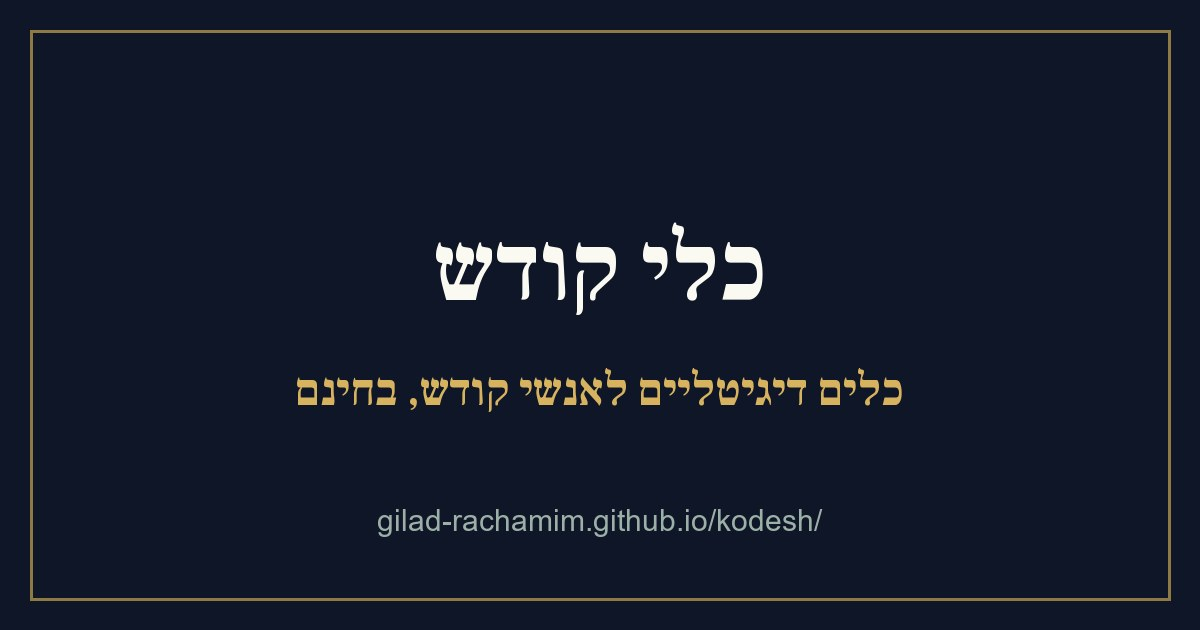
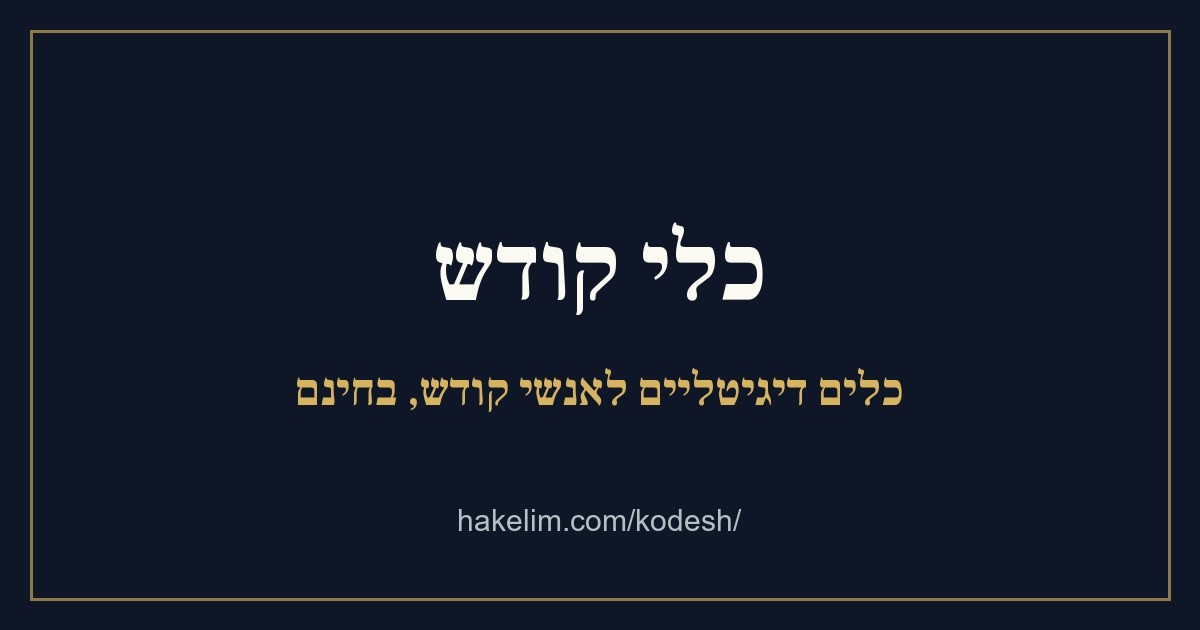
תמונות שיתוף: hakelim.com במקום github.io בתמונות של כלים, קודש ובית
הכתובת הישנה הייתה צרובה בתוך og-kelim/og-kodesh/og-bait. הוחלפה ב-hakelim.com,
ונוסף ?v=2 לכתובת התמונה כדי שפייסבוק ווטסאפ ימשכו אותה מחדש.

Changed region(s): [[0.3083, 0.8143, 0.6783, 0.8444]]

diff --git a/kelim/sw.js b/kelim/sw.js
@@ -1,7 +1,7 @@
 // service worker של תת-אתר בהכלים של גילעד רחמים (נוצר ע"י build.py, לא לערוך את העותק בתיקיית האתר).
 // דפים: קודם רשת, ואם אין אינטרנט – מהשמור. קבצים קבועים (css/js/גופנים): קודם שמור.
 // בקשות לשרתים אחרים (התמלול, גוגל) לא נוגעים בהן.
-var CACHE = 'kelim-202611110308';
+var CACHE = 'kelim-202611111223';
 var PRECACHE = ["/kelim/avoda/", "/kelim/avoda/korot/", "/kelim/avoda/misrot/", "/kelim/avoda/reayon/", "/kelim/briut/", "/kelim/briut/madadim/", "/kelim/briut/rofe/", "/kelim/briut/trufot/", "/kelim/chashiva/avanim/", "/kelim/chashiva/blackjack/", "/kelim/chashiva/chidon/", "/kelim/chashiva/damka/", "/kelim/chashiva/", "/kelim/chashiva/kita/beit-sefer/", "/kelim/chashiva/kita/horim/", "/kelim/chashiva/kita/", "/kelim/chashiva/kita/more/", "/kelim/chashiva/mila/", "/kelim/chashiva/poker/", "/kelim/chashiva/reviiot/", "/kelim/chashiva/shachmat/", "/kelim/chashiva/shachor/", "/kelim/chashiva/shesh-besh/", "/kelim/chashiva/sudoku/", "/kelim/chashiva/tashchetz/", "/kelim/chashiva/yaniv/", "/kelim/eruim/hachana/", "/kelim/eruim/hazmana/bar-mitzva/", "/kelim/eruim/hazmana/bat-mitzva/", "/kelim/eruim/hazmana/chalake/", "/kelim/eruim/hazmana/chanukat-bayit/", "/kelim/eruim/hazmana/chatuna/", "/kelim/eruim/hazmana/china/", "/kelim/eruim/hazmana/erusin/", "/kelim/eruim/hazmana/", "/kelim/eruim/hazmana/m/", "/kelim/eruim/hazmana/sefer-torah/", "/kelim/eruim/hazmana/sheva-brachot/", "/kelim/eruim/hazmana/v/", "/kelim/eruim/hazmana/yom-huledet/", "/kelim/eruim/hoshava/", "/kelim/eruim/", "/kelim/eruim/tochnit/", "/kelim/hitkadmut/", "/kelim/", "/kelim/kehila/aliyot/", "/kelim/kehila/azkarot/", "/kelim/kehila/", "/kelim/kehila/trempim/", "/kelim/kehila/trempim/luz/", "/kelim/kehila/trempim/pratiut/", "/kelim/kehila/trumot/", "/kelim/kesharim/hodaot/", "/kelim/kesharim/", "/kelim/kesharim/ishurim/", "/kelim/kesharim/sidur/", "/kelim/kesharim/yomulda/", "/kelim/machshev/chadashot/", "/kelim/machshev/chadashot/moda/", "/kelim/machshev/fax/", "/kelim/machshev/gibui/", "/kelim/machshev/", "/kelim/machshev/kasher/", "/kelim/machshev/kav/", "/kelim/machshev/pdf/", "/kelim/machshev/sader/", "/kelim/machshev/sisma/", "/kelim/machshev/tmuna/", "/kelim/machshev/tzilumim/", "/kelim/machshev/video/", "/kelim/miluim/bait/", "/kelim/miluim/", "/kelim/miluim/tziyud/", "/kelim/miluim/yamim/", "/kelim/mishpacha/", "/kelim/mishpacha/kniyot/", "/kelim/mishpacha/shabbat/", "/kelim/mishpacha/toranut/", "/kelim/pratiut/", "/kelim/shikum/", "/kelim/shikum/tik/", "/kelim/shikum/vaada/", "/kelim/shikum/yoman/", "/kelim/shipurim/", "/kelim/shir/clip/", "/kelim/shir/haklata/", "/kelim/shir/", "/kelim/shir/karaoke/erev/", "/kelim/shir/karaoke/", "/kelim/shir/lachan/", "/kelim/shir/milim/", "/kelim/tamlul/", "/kelim/tichnut/base64/", "/kelim/tichnut/bits/", "/kelim/tichnut/emet/", "/kelim/tichnut/git/", "/kelim/tichnut/gpu/", "/kelim/tichnut/hagdarot/", "/kelim/tichnut/imun/", "/kelim/tichnut/", "/kelim/tichnut/json/", "/kelim/tichnut/maslul/", "/kelim/tichnut/mehirut/", "/kelim/tichnut/miunim/", "/kelim/tichnut/occupancy/", "/kelim/tichnut/pkudot/", "/kelim/tichnut/reayon-tech/", "/kelim/tichnut/regex/", "/kelim/tichnut/shgiot/", "/kelim/tichnut/sibuchiyut/", "/kelim/tichnut/simulator/", "/kelim/tichnut/sql/", "/kelim/tichnut/tzaad/", "/kelim/tichnut/vram/", "/kelim/tiyulim/hotzaot/", "/kelim/tiyulim/", "/kelim/tiyulim/maslul/", "/kelim/tiyulim/ochel/", "/kelim/tiyulim/tziyud/", "/kelim/tochen/chaye/", "/kelim/tochen/gdalim/", "/kelim/tochen/", "/kelim/tochen/matzeget/", "/kelim/tochen/moda/", "/kelim/tochen/shiron/", "/kelim/tochen/studio/", "/kelim/tochen/wa/", "/assets/site.css?v=39e81fea", "/assets/kelim.css?v=95dad8f3", "/assets/kelim.js?v=c681b967", "/assets/track.js?v=b23b682b", "/assets/fonts/FrankRuhlLibre-wght.woff", "/assets/fonts/Assistant-wght.woff", "/assets/icon-kelim-192.png"];
 self.addEventListener('install', function (e) {
   e.waitUntil(caches.open(CACHE).then(function (c) { return c.addAll(PRECACHE); }).catch(function () {}).then(function () { return self.skipWaiting(); }));

diff --git a/kodesh/sw.js b/kodesh/sw.js
@@ -1,7 +1,7 @@
 // service worker של תת-אתר בהכלים של גילעד רחמים (נוצר ע"י build.py, לא לערוך את העותק בתיקיית האתר).
 // דפים: קודם רשת, ואם אין אינטרנט – מהשמור. קבצים קבועים (css/js/גופנים): קודם שמור.
 // בקשות לשרתים אחרים (התמלול, גוגל) לא נוגעים בהן.
-var CACHE = 'kodesh-202611110308';
+var CACHE = 'kodesh-202611111223';
 var PRECACHE = ["/kodesh/album/", "/kodesh/alon/", "/kodesh/atar/", "/kodesh/azkara/", "/kodesh/beit-knesset/", "/kodesh/boker/", "/kodesh/brachon/", "/kodesh/brachot/", "/kodesh/brachot/yom-huledet/", "/kodesh/britot/", "/kodesh/britot-meyuchadot/", "/kodesh/chag-basis/", "/kodesh/chanuka/bracha/", "/kodesh/chanuka/chanukiya/", "/kodesh/chanuka/chesed/", "/kodesh/chanuka/chidon/", "/kodesh/chanuka/chufsha/", "/kodesh/chanuka/", "/kodesh/chanuka/kniyot/", "/kodesh/chanuka/matkonim/", "/kodesh/chanuka/nerot/", "/kodesh/chanuka/sevivon/", "/kodesh/chanuka/shiron/", "/kodesh/chanuka/sipurim/", "/kodesh/chanuka/tashbetz/", "/kodesh/chanuka/tshii/", "/kodesh/chanuka/tzviya/", "/kodesh/chayal/", "/kodesh/dapei-tefila/", "/kodesh/dvar-torah/", "/kodesh/hachlama/", "/kodesh/hodaot/", "/kodesh/", "/kodesh/kartis/", "/kodesh/kartis-mohel/", "/kodesh/kibudim-yechida/", "/kodesh/luach/", "/kodesh/luach-shana/", "/kodesh/masach/", "/kodesh/mekorot/", "/kodesh/misheberach/", "/kodesh/mohalim/bli-atar/", "/kodesh/mohalim/", "/kodesh/olpan/", "/kodesh/olpan/kol/", "/kodesh/olpan/mara/", "/kodesh/olpan/prompter/", "/kodesh/olpan/reka/", "/kodesh/omer-avot/", "/kodesh/post/", "/kodesh/psak/", "/kodesh/qr/", "/kodesh/r/", "/kodesh/shavua/", "/kodesh/shiur/", "/kodesh/shut/", "/kodesh/simcha/", "/kodesh/sipur/", "/kodesh/sipurim/", "/kodesh/taarichim/", "/kodesh/tehillim/", "/kodesh/tehillim/shem/", "/kodesh/teuda/", "/kodesh/tofes-brit/", "/kodesh/tziyud/", "/kodesh/video/", "/kodesh/video-parasha/", "/kodesh/video-shiur/", "/kodesh/zmanim/", "/assets/site.css?v=39e81fea", "/assets/kelim.css?v=95dad8f3", "/assets/kelim.js?v=c681b967", "/assets/track.js?v=b23b682b", "/assets/fonts/FrankRuhlLibre-wght.woff", "/assets/fonts/Assistant-wght.woff", "/assets/icon-kodesh-192.png"];
 self.addEventListener('install', function (e) {
   e.waitUntil(caches.open(CACHE).then(function (c) { return c.addAll(PRECACHE); }).catch(function () {}).then(function () { return self.skipWaiting(); }));

diff --git a/limudim/sw.js b/limudim/sw.js
@@ -1,7 +1,7 @@
 // service worker של תת-אתר בהכלים של גילעד רחמים (נוצר ע"י build.py, לא לערוך את העותק בתיקיית האתר).
 // דפים: קודם רשת, ואם אין אינטרנט – מהשמור. קבצים קבועים (css/js/גופנים): קודם שמור.
 // בקשות לשרתים אחרים (התמלול, גוגל) לא נוגעים בהן.
-var CACHE = 'limudim-202611110308';
+var CACHE = 'limudim-202611111223';
 var PRECACHE = ["/limudim/batei-sefer/", "/limudim/dapim/", "/limudim/ilui/", "/limudim/", "/limudim/kahoot/", "/limudim/kartisiot/", "/limudim/krav/", "/limudim/krav-anglit/", "/limudim/kvutza/", "/limudim/machberet/", "/limudim/machberet/kita/", "/limudim/machshevon/", "/limudim/maslul/", "/limudim/matematika/", "/limudim/mivchan/", "/limudim/olami/", "/limudim/poter/", "/limudim/timer/", "/limudim/yomi/", "/assets/site.css?v=39e81fea", "/assets/kelim.css?v=95dad8f3", "/assets/kelim.js?v=c681b967", "/assets/track.js?v=b23b682b", "/assets/fonts/FrankRuhlLibre-wght.woff", "/assets/fonts/Assistant-wght.woff", "/assets/icon-limudim-192.png", "/assets/limudim.css?v=b9223dd1", "/assets/limudim.js?v=b71ff230"];
 self.addEventListener('install', function (e) {
   e.waitUntil(caches.open(CACHE).then(function (c) { return c.addAll(PRECACHE); }).catch(function () {}).then(function () { return self.skipWaiting(); }));

diff --git a/kesef/sw.js b/kesef/sw.js
@@ -1,7 +1,7 @@
 // service worker של תת-אתר בהכלים של גילעד רחמים (נוצר ע"י build.py, לא לערוך את העותק בתיקיית האתר).
 // דפים: קודם רשת, ואם אין אינטרנט – מהשמור. קבצים קבועים (css/js/גופנים): קודם שמור.
 // בקשות לשרתים אחרים (התמלול, גוגל) לא נוגעים בהן.
-var CACHE = 'kesef-202611110308';
+var CACHE = 'kesef-202611111223';
 var PRECACHE = ["/kesef/ashrai/", "/kesef/halvaa/", "/kesef/hechzer/", "/kesef/", "/kesef/kranot/", "/kesef/mechir/", "/kesef/minuyim/", "/kesef/mismachim/", "/kesef/mivtza/", "/kesef/ribit-dribit/", "/kesef/shana/", "/kesef/taktziv/", "/kesef/tlush/", "/kesef/yeladim/", "/assets/site.css?v=39e81fea", "/assets/kelim.css?v=95dad8f3", "/assets/kelim.js?v=c681b967", "/assets/track.js?v=b23b682b", "/assets/fonts/FrankRuhlLibre-wght.woff", "/assets/fonts/Assistant-wght.woff", "/assets/icon-kesef-192.png", "/assets/kesef.css?v=b790a201", "/assets/kesef.js?v=27f16432"];
 self.addEventListener('install', function (e) {
   e.waitUntil(caches.open(CACHE).then(function (c) { return c.addAll(PRECACHE); }).catch(function () {}).then(function () { return self.skipWaiting(); }));

diff --git a/nefesh/sw.js b/nefesh/sw.js
@@ -1,7 +1,7 @@
 // service worker של תת-אתר בהכלים של גילעד רחמים (נוצר ע"י build.py, לא לערוך את העותק בתיקיית האתר).
 // דפים: קודם רשת, ואם אין אינטרנט – מהשמור. קבצים קבועים (css/js/גופנים): קודם שמור.
 // בקשות לשרתים אחרים (התמלול, גוגל) לא נוגעים בהן.
-var CACHE = 'nefesh-202611110308';
+var CACHE = 'nefesh-202611111223';
 var PRECACHE = ["/nefesh/hayom/", "/nefesh/", "/nefesh/koach/", "/nefesh/michtav/", "/nefesh/mishpacha/", "/nefesh/rega/", "/nefesh/tmicha/", "/nefesh/yoman/", "/assets/site.css?v=39e81fea", "/assets/kelim.css?v=95dad8f3", "/assets/kelim.js?v=c681b967", "/assets/track.js?v=b23b682b", "/assets/fonts/FrankRuhlLibre-wght.woff", "/assets/fonts/Assistant-wght.woff", "/assets/icon-nefesh-192.png", "/assets/nefesh.css?v=21cf25b4", "/assets/nefesh.js?v=bb3ac2d0"];
 self.addEventListener('install', function (e) {
   e.waitUntil(caches.open(CACHE).then(function (c) { return c.addAll(PRECACHE); }).catch(function () {}).then(function () { return self.skipWaiting(); }));

diff --git a/bait/sw.js b/bait/sw.js
@@ -1,7 +1,7 @@
 // service worker של תת-אתר בהכלים של גילעד רחמים (נוצר ע"י build.py, לא לערוך את העותק בתיקיית האתר).
 // דפים: קודם רשת, ואם אין אינטרנט – מהשמור. קבצים קבועים (css/js/גופנים): קודם שמור.
 // בקשות לשרתים אחרים (התמלול, גוגל) לא נוגעים בהן.
-var CACHE = 'bait-202611110308';
+var CACHE = 'bait-202611111223';
 var PRECACHE = ["/bait/", "/bait/kniyot/", "/bait/matana/", "/bait/mazgan/", "/bait/mevi/", "/bait/mismachim/", "/bait/shabat/", "/bait/shigra/", "/bait/toranut/", "/assets/site.css?v=39e81fea", "/assets/kelim.css?v=95dad8f3", "/assets/kelim.js?v=c681b967", "/assets/track.js?v=b23b682b", "/assets/fonts/FrankRuhlLibre-wght.woff", "/assets/fonts/Assistant-wght.woff", "/assets/icon-bait-192.png", "/assets/bait.css?v=1abd14aa", "/assets/bait.js?v=e4a0d2b0"];
 self.addEventListener('install', function (e) {
   e.waitUntil(caches.open(CACHE).then(function (c) { return c.addAll(PRECACHE); }).catch(function () {}).then(function () { return self.skipWaiting(); }));

diff --git a/kesef/index.html b/kesef/index.html
@@ -12,7 +12,7 @@
 <meta property="og:site_name" content="כלים לכסף">
 <meta property="og:title" content="כלים לכסף – מחשבונים פשוטים לבית">
 <meta property="og:description" content="שלושה עשר מחשבונים חינמיים לכסף של הבית: תקציב משפחתי, מחשבון הלוואה ומשכנתא, מחשבון ריבית דריבית, מנויים, הוצאות לאורך השנה, חיסכון לילדים, המבצע המשפחתי, מסדר מסמכי הכסף, האם כדאי לבדוק החזר מס, בודק תלוש משכורת, סריקת דף אשראי, מעקב קרנות השתלמות ובדיקת מחירים של מוצרי סופר. נשמר רק בטלפון.">
-<meta property="og:image" content="https://hakelim.com/assets/og-kelim.jpg">
+<meta property="og:image" content="https://hakelim.com/assets/og-kelim.jpg?v=2">
 <meta property="og:url" content="https://hakelim.com/kesef/">
 <meta name="twitter:card" content="summary_large_image">
 <meta name="theme-color" content="#11201a">

diff --git a/esek/sw.js b/esek/sw.js
@@ -1,7 +1,7 @@
 // service worker של תת-אתר בהכלים של גילעד רחמים (נוצר ע"י build.py, לא לערוך את העותק בתיקיית האתר).
 // דפים: קודם רשת, ואם אין אינטרנט – מהשמור. קבצים קבועים (css/js/גופנים): קודם שמור.
 // בקשות לשרתים אחרים (התמלול, גוגל) לא נוגעים בהן.
-var CACHE = 'esek-202611110308';
+var CACHE = 'esek-202611111223';
 var PRECACHE = ["/esek/", "/esek/mivtza/", "/esek/ptiha/", "/esek/qr/", "/esek/tafrit/", "/assets/site.css?v=39e81fea", "/assets/kelim.css?v=95dad8f3", "/assets/kelim.js?v=c681b967", "/assets/track.js?v=b23b682b", "/assets/fonts/FrankRuhlLibre-wght.woff", "/assets/fonts/Assistant-wght.woff", "/assets/icon-esek-192.png", "/assets/esek.css?v=c4c0dedb"];
 self.addEventListener('install', function (e) {
   e.waitUntil(caches.open(CACHE).then(function (c) { return c.addAll(PRECACHE); }).catch(function () {}).then(function () { return self.skipWaiting(); }));

diff --git a/bait/index.html b/bait/index.html
@@ -12,7 +12,7 @@
 <meta property="og:site_name" content="כלים למשפחה ולבית">
 <meta property="og:title" content="כלים למשפחה ולבית – בחינם">
 <meta property="og:description" content="שמונה כלים חינמיים לבית, בלי הרשמה: רשימת קניות עם משחק קניות לילדים, לוח תורנויות למקרר, מתכנן שבת ואורחים, מי מביא מה, שגרת בוקר וערב לילדים, המסמכים של הבית עם תזכורת, מתנה קבוצתית, ושלט למזגן מהטלפון.">
-<meta property="og:image" content="https://hakelim.com/assets/og-bait.jpg">
+<meta property="og:image" content="https://hakelim.com/assets/og-bait.jpg?v=2">
 <meta property="og:url" content="https://hakelim.com/bait/">
 <meta name="twitter:card" content="summary_large_image">
 <meta name="theme-color" content="#1f1915">

diff --git a/esek/index.html b/esek/index.html
@@ -12,7 +12,7 @@
 <meta property="og:site_name" content="כלים לעסק קטן">
 <meta property="og:title" content="כלים לעסק קטן – בחינם, בטלפון, בלי הרשמה">
 <meta property="og:description" content="כלים חינמיים לבעלי עסקים קטנים: תפריט דיגיטלי בקישור עם QR לשולחן, מודעת מבצע לסטטוס ולפייסבוק, QR מעוצב לווטסאפ ולוויפיי, וצ'ק-ליסט לפתיחת עסק. עובד בטלפון, בלי הרשמה.">
-<meta property="og:image" content="https://hakelim.com/assets/og-kelim.jpg">
+<meta property="og:image" content="https://hakelim.com/assets/og-kelim.jpg?v=2">
 <meta property="og:url" content="https://hakelim.com/esek/">
 <meta name="twitter:card" content="summary_large_image">
 <meta name="theme-color" content="#1c1712">

diff --git a/kodesh/index.html b/kodesh/index.html
@@ -12,7 +12,7 @@
 <meta property="og:site_name" content="כלי קודש">
 <meta property="og:title" content="כלי קודש – כלים דיגיטליים לאנשי קודש, בחינם">
 <meta property="og:description" content="כלים חינמיים לאנשי קודש: מחשבון תאריכים (ברית, פדיון הבן, בר ובת מצווה, שלושים, יארצייט, שקיעה), כלים למוהלים, תמלול שיעורים, ועוד בדרך. חלק מהכלים של גילעד רחמים.">
-<meta property="og:image" content="https://hakelim.com/assets/og-kodesh.jpg">
+<meta property="og:image" content="https://hakelim.com/assets/og-kodesh.jpg?v=2">
 <meta property="og:url" content="https://hakelim.com/kodesh/">
 <meta name="twitter:card" content="summary_large_image">
 <meta name="theme-color" content="#0e1628">

diff --git a/limudim/index.html b/limudim/index.html
@@ -12,7 +12,7 @@
 <meta property="og:site_name" content="כלים ללימודים">
 <meta property="og:title" content="כלים ללימודים – חינם, בלי הרשמה">
 <meta property="og:description" content="כלים חינמיים ללמידה, בלי הרשמה: כרטיסיות חזרה חכמות, מתכנן למידה למבחן עם יומן, טיימר 25/5, ולימוד יומי לסיום התנ״ך או המשנה בשנה או בשלוש שנים. הכול נשמר רק בטלפון.">
-<meta property="og:image" content="https://hakelim.com/assets/og-kelim.jpg">
+<meta property="og:image" content="https://hakelim.com/assets/og-kelim.jpg?v=2">
 <meta property="og:url" content="https://hakelim.com/limudim/">
 <meta name="twitter:card" content="summary_large_image">
 <meta name="theme-color" content="#141c2b">
